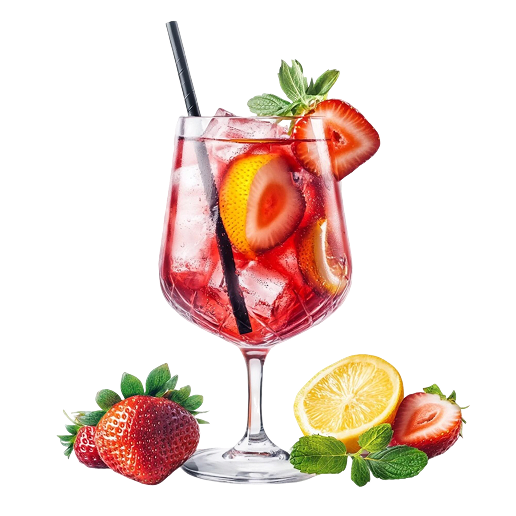
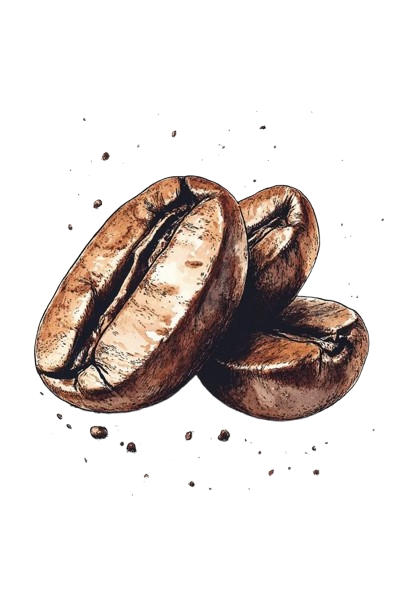
implemeted the Art Section

diff --git a/src/components/Art.jsx b/src/components/Art.jsx
@@ -1,0 +1,70 @@
+import React from 'react'
+import { featureLists, goodLists } from '../constants';
+import { useMediaQuery } from 'react-responsive';
+import { useGSAP } from '@gsap/react';
+import { gsap } from 'gsap';
+
+const Art = () => {
+    const isMobile = useMediaQuery({ maxWidth: 767 });
+
+    useGSAP(() => {
+        const start = isMobile ? 'top 20%' : 'top top';
+        const maskTimeline = gsap.timeline({
+            scrollTrigger: {
+                trigger: '#art',
+                start: start,
+                end: 'bottom center',
+                scrub: 1.5,
+                pin: true,
+            }
+        });
+        maskTimeline
+        .to('.will-fade', {opacity: 0, stagger:0.2,ease:'power1.inOut'})
+        .to('.masked-img', {scale:1.3,maskPosition:'center', maskSize:'400%',duration:1,ease:'power1.inOut'})
+        .to('#masked-content',{opacity:1,duration:1,ease:'power1.inout'})
+      
+    })
+
+  return (
+    <div id='art' >
+        <div className='container mx-auto h-full pt-20'>
+            <h2 className="will-fade">The ART</h2>
+            <div className='content'>
+                
+                 <ul className='space-y-4 will-fade'>
+                    {goodLists.map((feature,index) => (
+                        <li key={index} className='flex items-center gap-2'>
+                            <img src='/images/check.png' alt='check' /> 
+                            <p>{feature}</p>
+                        </li>    
+                    ))}
+                 </ul>
+
+                 <div className='cocktail-img'>
+                    <img src='/images/under-img.jpg' alt='Cocktail' className='abs-center masked-img size-full object-contain' />
+                 </div> 
+
+                 <ul className='space-y-4 will-fade'>
+                    {featureLists.map((feature,index) => (
+                        <li key={index} className='flex items-center justify-start gap-2'>
+                            <img src='/images/check.png' alt='check' /> 
+                            <p className='md:w-fit w-60'>{feature}</p>
+                        </li>    
+                    ))}
+                 </ul>
+            </div>
+            <div className='masked-container'>
+                <h2 className='will-fade'>Brewed To Perfection</h2>
+                <div id='masked-content'>
+                    <h3>Crafted with Passion, Brewed to Perfection</h3>
+                    <p>Every cup is thoughtfully crafted using premium beans and timeless techniques to create moments worth savoring.</p>
+                </div>
+
+            </div>
+        </div>
+    </div>
+      
+    )
+}
+
+export default Art

diff --git a/src/index.css b/src/index.css
@@ -219,7 +219,7 @@ body {
         }
 
         .top-grid {
-            @apply grid grid-cols-1 xl:grid-cols-12 gap-5 mb-5 md:px-0 px-5;
+            @apply grid grid-cols-1 md:grid-cols-12 gap-5 mb-5 md:px-0 px-5;
 
             > div {
                 @apply rounded-3xl overflow-hidden h-72 relative;
@@ -260,14 +260,14 @@ body {
 
         .masked-container {
             h2 {
-                @apply text-4xl md:text-5xl font-modern-negra text-center mb-10 text-white mt-32;
+                @apply text-4xl md:text-5xl font-modern-negra text-center mb-10 text-white mt-0;
             }
 
             div {
                 @apply opacity-0 md:px-0 px-5 space-y-5 absolute md:bottom-5 bottom-52 left-1/2 -translate-x-1/2;
 
                 h3 {
-                    @apply md:text-5xl text-2xl text-center font-serif md:w-full w-80 text-white;
+                    @apply md:text-3xl text-2xl text-center font-serif md:w-full w-80 text-white;
                 }
 
                 p {

diff --git a/src/constants/index.js b/src/constants/index.js
@@ -1,6 +1,6 @@
 const navLinks = [
   {
-    id: "brews",
+    id: "cocktails",
     title: "Signature Brews",
   },
   {
@@ -8,7 +8,7 @@ const navLinks = [
     title: "Our Story",
   },
   {
-    id: "craft",
+    id: "art",
     title: "The Craft",
   },
   {

diff --git a/src/App.jsx b/src/App.jsx
@@ -5,6 +5,7 @@ import Navbar from './components/Navbar';
 import Hero from './components/Hero';
 import SignatureBrews from './components/SignatureBrews';
 import About from './components/About';
+import Art from './components/Art';
 
 gsap.registerPlugin(ScrollTrigger, SplitText);
 
@@ -16,6 +17,7 @@ const App = () => {
         <Hero />
         <SignatureBrews />
         <About />
+        <Art />
     </main>
   )
 }

diff --git a/src/components/Navbar.jsx b/src/components/Navbar.jsx
@@ -12,7 +12,7 @@ const Navbar = () => {
             }
         });
         navTween.fromTo('nav',{backgroundColor: 'transparent'},
-            {backgroundColor: '#00000050)',
+            {backgroundColor: 'rgba(0,0,0,0.31)',
             backdropFilter: 'blur(10px)',
             duration: 1,
             ease: 'power1.out',